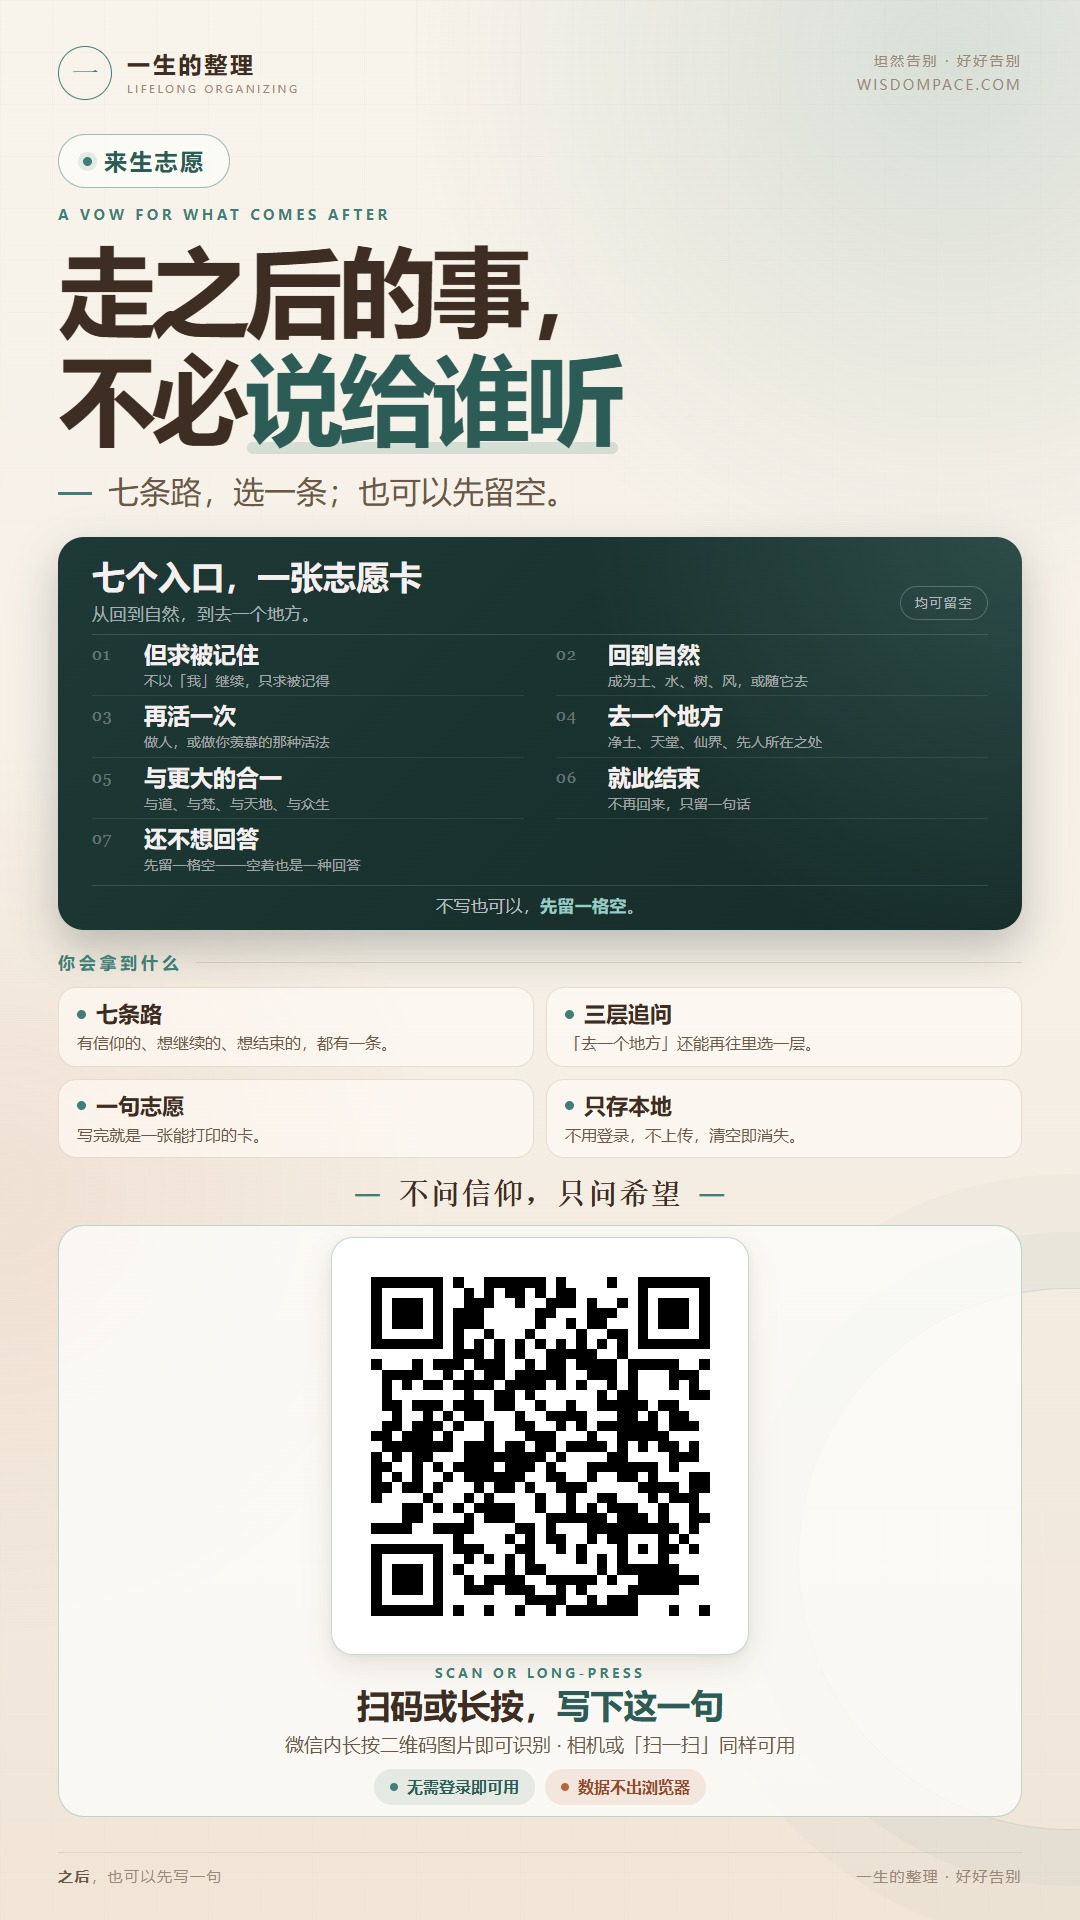
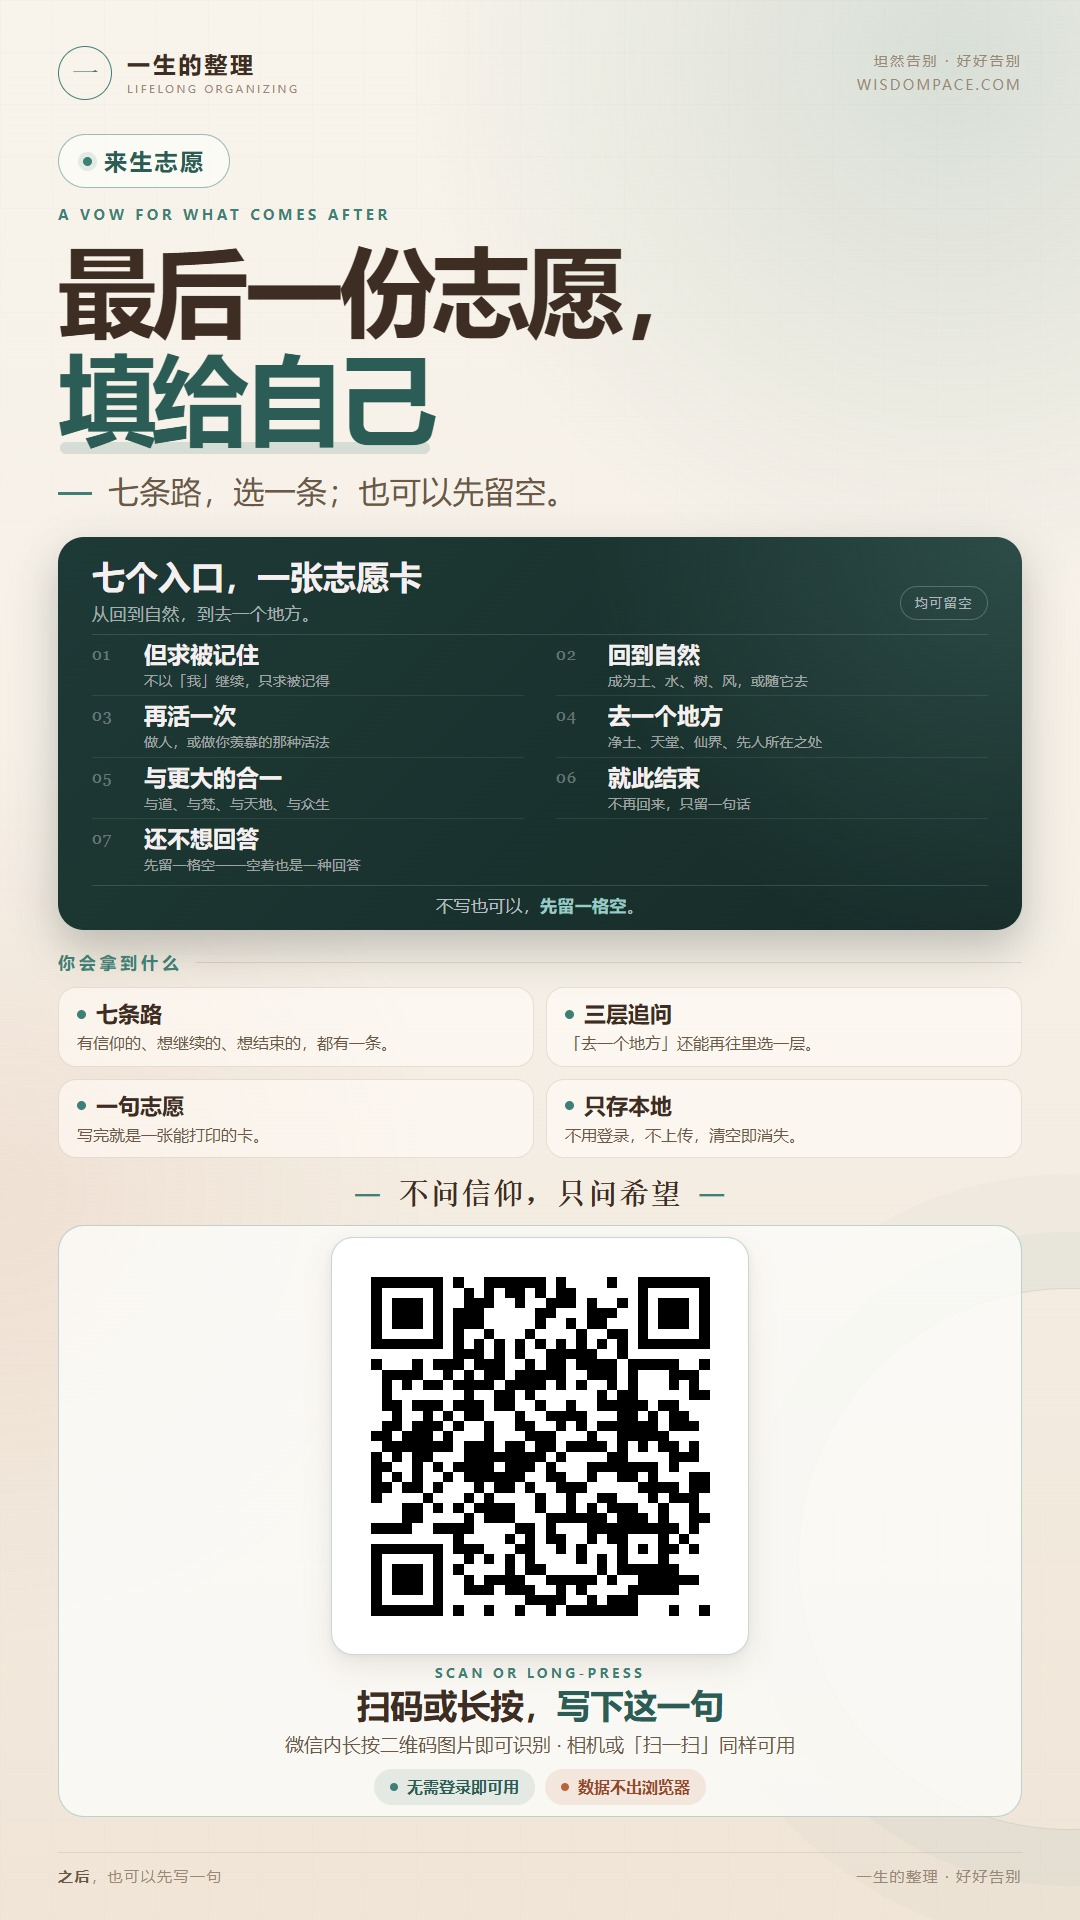
posters: 来生志愿海报主标题改为「最后一份志愿，填给自己」

Changed region(s): [[0.0611, 0.125, 0.6111, 0.25]]

diff --git a/posters/future-vow-poster.html b/posters/future-vow-poster.html
@@ -467,7 +467,7 @@
     <section class="hero">
       <div class="tool-chip"><span class="dot"></span>来生志愿</div>
       <p class="kicker">A VOW FOR WHAT COMES AFTER</p>
-      <h1>走之后的事，<br />不必<span class="accent">说给谁听</span></h1>
+      <h1>最后一份志愿，<br /><span class="accent">填给自己</span></h1>
       <p class="slogan">七条路，选一条；也可以先留空。</p>
     </section>
 
